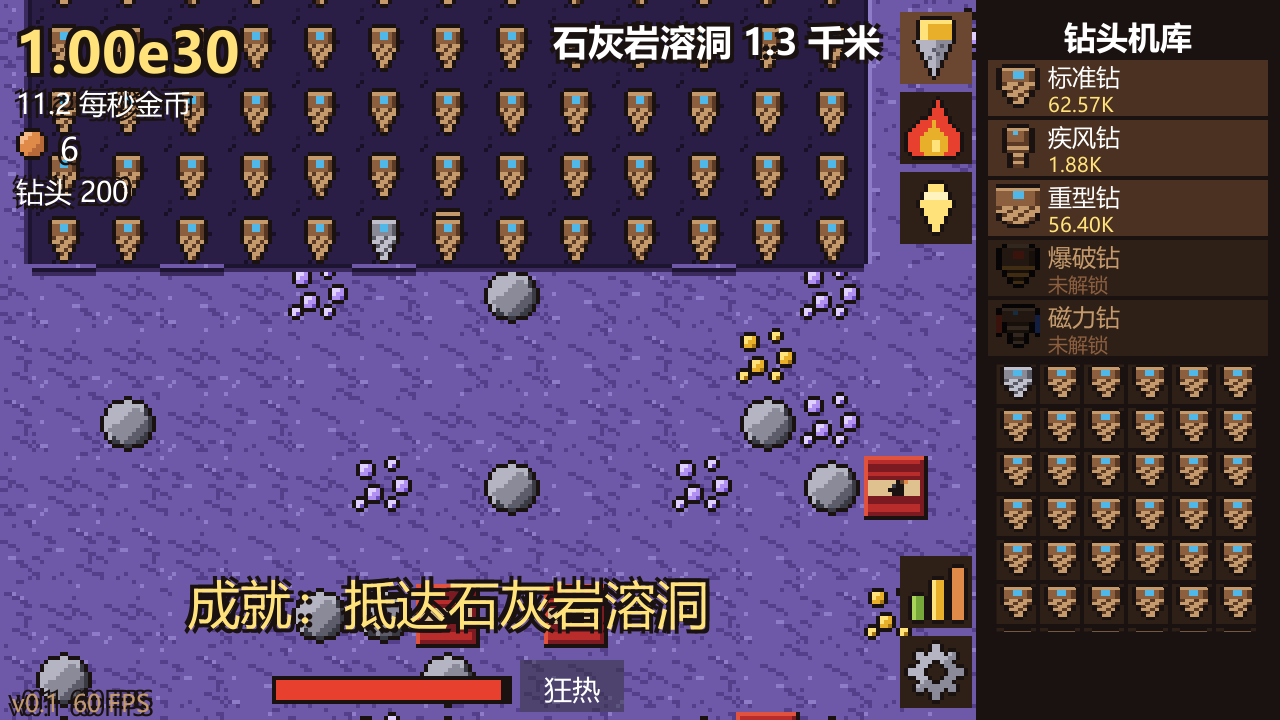
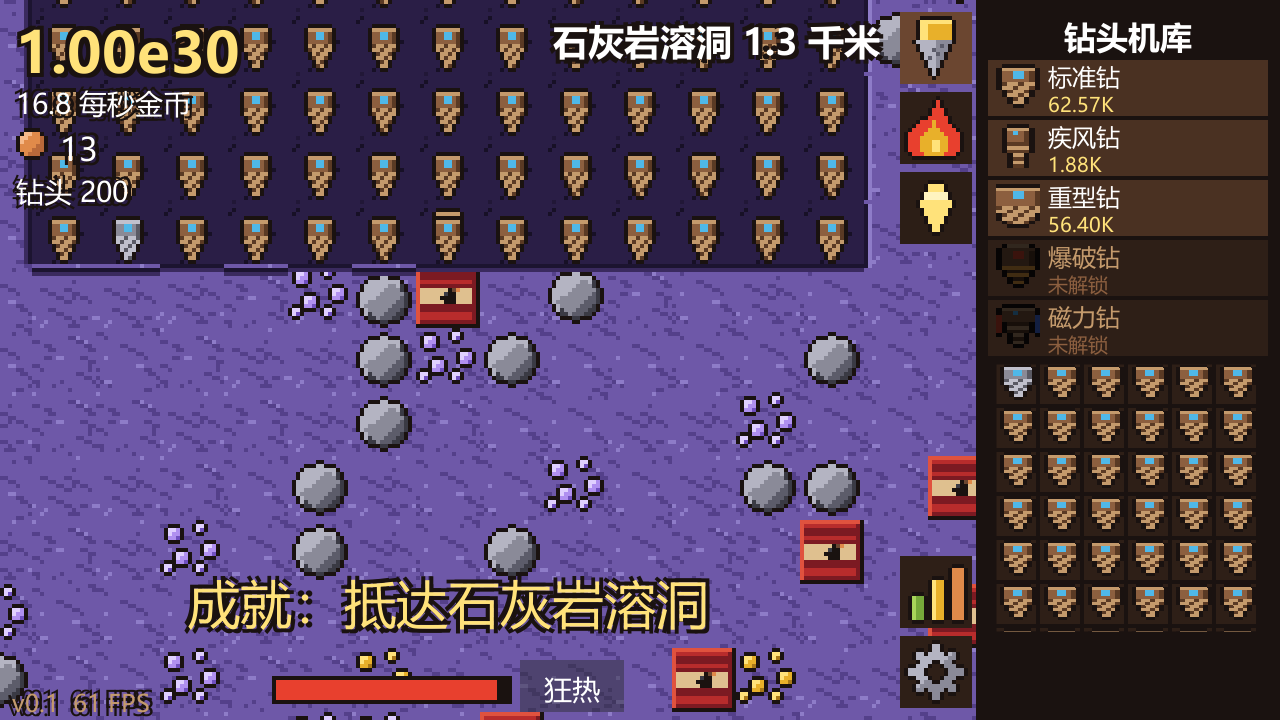
Start every run by hand until auto drilling is unlocked
Drills only swing when tapped until the root skill's first level is
bought, which also gates offline income and the auto hangar. A guide
leads to the skill tree, and the start gold skill keeps the unlock
through a rebirth.

diff --git a/Assets/Tests/EditMode/CoreTests.cs b/Assets/Tests/EditMode/CoreTests.cs
@@ -23,10 +23,116 @@ namespace DeepDrill.Tests
             GameData.Load(name => File.ReadAllText(Path.Combine(data, name + ".json")));
         }
 
+        // Most rules are tested with auto drilling on; FreshSim is a game as the player first meets it.
         private static GameSim NewSim(int seed = 42)
+        {
+            var sim = FreshSim(seed);
+            sim.GrantSkill(GameSim.RootSkill, 1);
+            return sim;
+        }
+
+        private static GameSim FreshSim(int seed = 42)
         {
             EnsureData();
             return new GameSim(new GameState { seed = seed });
+        }
+
+        [Test]
+        public void BeforeUnlock_DrillsDoNotDigByThemselves()
+        {
+            var sim = FreshSim();
+            for (int i = 0; i < 200; i++) sim.Tick(0.1);
+            Assert.AreEqual(0, sim.State.coins, 1e-9);
+            Assert.AreEqual(0, sim.State.depth);
+            Assert.IsFalse(sim.Events.Exists(e => e.Kind == SimEventKind.BlockHit));
+        }
+
+        [Test]
+        public void BeforeUnlock_TappingADrillSwingsItOnce()
+        {
+            var sim = FreshSim();
+            sim.Tick(0.1);
+            sim.Events.Clear();
+            var body = sim.Lead.Body;
+            Assert.IsTrue(sim.Click(body.BodyRow, body.Column), "the drill itself");
+            Assert.IsTrue(sim.Click(body.BodyRow + 1, body.Column), "the block under it");
+            var hits = sim.Events.FindAll(e => e.Kind == SimEventKind.BlockHit);
+            Assert.AreEqual(2, hits.Count);
+            Assert.IsTrue(hits.TrueForAll(e => e.FromClick), "full click feedback");
+            Assert.IsFalse(sim.Click(body.BodyRow + 1, 3), "other blocks do nothing yet");
+        }
+
+        [Test]
+        public void TappingALot_EarnsTheUnlockInAboutHalfAMinuteToAMinute()
+        {
+            var sim = FreshSim();
+            double cost = GameData.Skill(GameSim.RootSkill).CostAt(0);
+            const double tapsPerSecond = 5;
+            double seconds = 0;
+            while (sim.State.coins < cost && seconds < 600)
+            {
+                sim.Tick(1 / tapsPerSecond);
+                sim.Click(sim.Lead.Body.BodyRow + 1, sim.Lead.Body.Column);
+                seconds += 1 / tapsPerSecond;
+            }
+            Assert.That(seconds, Is.InRange(20, 75));
+        }
+
+        [Test]
+        public void Unlocking_StartsAutomaticDigging()
+        {
+            var sim = FreshSim();
+            sim.State.coins = 15;
+            Assert.IsTrue(sim.Buy(GameSim.RootSkill));
+            Assert.IsTrue(sim.AutoDrillUnlocked);
+            for (int i = 0; i < 300; i++) sim.Tick(0.1);
+            Assert.Greater(sim.State.depth, 0);
+        }
+
+        [Test]
+        public void RootLevels_UnlockFirstThenAddDamage()
+        {
+            var sim = FreshSim();
+            int code = DrillCode.Make(0, 0);
+            double damage = sim.DamageOf(code);
+            sim.GrantSkill(GameSim.RootSkill, 1);
+            Assert.AreEqual(damage, sim.DamageOf(code), 1e-9, "level 1 is the switch");
+            sim.GrantSkill(GameSim.RootSkill, 3);
+            Assert.AreEqual(damage * 1.1, sim.DamageOf(code), 1e-9);
+        }
+
+        [Test]
+        public void BeforeUnlock_NoOfflineIncomeOrAutoHangar()
+        {
+            var sim = FreshSim();
+            sim.State.incomePerSecond = 100;
+            sim.State.lastSaveUnixSeconds = 1000;
+            Assert.AreEqual(0, sim.ApplyOffline(5000), 1e-9);
+
+            sim.GrantSkill(GameData.Skills.First(s => s.Effect == SkillEffect.auto_merge).Id, 1);
+            sim.State.drills.Add(DrillCode.Make(0, 0));
+            sim.Tick(1.1);
+            Assert.AreEqual(2, sim.State.drills.Count, "auto merge waits for the unlock");
+        }
+
+        [Test]
+        public void StartGoldSkill_KeepsAutoDrillThroughRebirth()
+        {
+            var sim = NewSim();
+            var s = sim.State;
+            s.bossesDefeated = 1;
+            s.maxDepth = 400;
+            s.totalIncome = 1e6;
+            sim.GrantSkill(GameData.Skills.First(x => x.Effect == SkillEffect.start_gold).Id, 1);
+            Assert.IsTrue(sim.Rebirth());
+            Assert.IsTrue(sim.AutoDrillUnlocked);
+
+            var plain = NewSim();
+            plain.State.bossesDefeated = 1;
+            plain.State.maxDepth = 400;
+            plain.State.totalIncome = 1e6;
+            Assert.IsTrue(plain.Rebirth());
+            Assert.IsFalse(plain.AutoDrillUnlocked, "the switch is cleared like any skill");
         }
 
         private static void MakeBlock(GameSim sim, int row, int col, BlockType type, double hp = 0.1)
@@ -340,7 +446,7 @@ namespace DeepDrill.Tests
         [Test]
         public void Skills_NeedLayerThenPrereq()
         {
-            var sim = NewSim();
+            var sim = FreshSim();
             sim.State.coins = 1e30;
             Assert.IsFalse(sim.Buy("drill_01"), "root first");
             Assert.IsTrue(sim.Buy("root"));
@@ -705,10 +811,10 @@ namespace DeepDrill.Tests
             var chest = sim.Row(10)[0];
             chest.Type = BlockType.Chest;
             chest.Hp = 0.1;
-            sim.GrantSkill("root", 0); // recomputes bonuses
+            sim.GrantSkill("root", 1); // recomputes bonuses
             Assert.AreEqual(before * 1.01, sim.DamageOf(code), 1e-9);
             sim.State.AddRare("rare_1_1");
-            sim.GrantSkill("root", 0);
+            sim.GrantSkill("root", 1);
             Assert.AreEqual(before * 1.015, sim.DamageOf(code), 1e-9);
         }
 
@@ -758,6 +864,7 @@ namespace DeepDrill.Tests
         [Test]
         public void OldSave_RestartsTheWorldButKeepsCoins()
         {
+            EnsureData();
             var state = new GameState { version = 3, coins = 5, depth = 80 };
             state.SetLevel("drill_damage", 5);
             state.Upgrade();

diff --git a/Assets/Scripts/Core/GameSim.cs b/Assets/Scripts/Core/GameSim.cs
@@ -63,6 +63,7 @@ namespace DeepDrill.Core
         private const int SwarmPerDrills = 10;
         private const int AutoBuysPerTick = 5;
         private const int MaxSpawnRowsUp = 40;
+        public const string RootSkill = "root";
         private const int SwiftFamily = 1;
         private const int HeavyFamily = 2;
         private const int BlastFamily = 3;
@@ -151,6 +152,9 @@ namespace DeepDrill.Core
                 Balance.ComboBonusPerStep * (Combo / Balance.ComboStep));
 
         public double Effect(SkillEffect effect) => effects[(int)effect];
+
+        /// <summary>The first level of the root skill: until then drills only move when tapped.</summary>
+        public bool AutoDrillUnlocked => State.LevelOf(RootSkill) >= 1;
 
         private int AchievementCount(string prefix)
         {
@@ -300,14 +304,40 @@ namespace DeepDrill.Core
             AdvanceHousekeeping(dt);
         }
 
-        /// <summary>Player tap on any block. Returns false when nothing was there to hit.</summary>
+        /// <summary>
+        /// Player tap. Tapping a drill or the block under it makes that drill swing once, which is
+        /// the only way to dig before auto drilling is unlocked. Afterwards any block can be tapped.
+        /// Returns false when the tap hit nothing.
+        /// </summary>
         public bool Click(int row, int col)
         {
-            if (row < 0 || col < 0 || col >= Balance.Columns) return false;
+            if (col < 0 || col >= Balance.Columns) return false;
+            // a drill can be above ground, so a tap on it comes before the check for sky
+            var unit = UnitAtOrAbove(row, col);
+            if (unit != null && SwingByHand(unit)) return true;
+            if (!AutoDrillUnlocked || row < 0) return false;
             var block = Row(row)[col];
             if (!block.Alive) return false;
             if (block.Type == BlockType.BossRoot && !BossActive) return false;
             Strike(row, col, ClickDamage, true, RollCrit(), Lead);
+            return true;
+        }
+
+        private DrillUnit UnitAtOrAbove(int row, int col)
+        {
+            foreach (var unit in Units)
+            {
+                if (unit.Body.Column != col) continue;
+                int bodyRow = unit.Body.BodyRow;
+                if (bodyRow == row || bodyRow + 1 == row) return unit;
+            }
+            return null;
+        }
+
+        private bool SwingByHand(DrillUnit unit)
+        {
+            if (!FindTarget(unit.Body, out int row, out int col)) return false;
+            Strike(row, col, DamageOf(unit.Code) * (1 + Effect(SkillEffect.click_pct) / 100), true, RollCrit(), unit);
             return true;
         }
 
@@ -432,7 +462,7 @@ namespace DeepDrill.Core
         /// <summary>Credits offline income and returns how much was added.</summary>
         public double ApplyOffline(long nowUnixSeconds)
         {
-            if (State.lastSaveUnixSeconds <= 0) return 0;
+            if (State.lastSaveUnixSeconds <= 0 || !AutoDrillUnlocked) return 0;
             double earned = Balance.OfflineEarnings(State.incomePerSecond, nowUnixSeconds - State.lastSaveUnixSeconds,
                 Effect(SkillEffect.offline_pct) / 100, Effect(SkillEffect.offline_hours));
             State.coins += earned;
@@ -446,6 +476,7 @@ namespace DeepDrill.Core
             if (!CanRebirth) return false;
             int gained = ShardsOnRebirth;
             double startGold = Balance.StartGold * Math.Max(1, Effect(SkillEffect.start_gold));
+            bool keepAutoDrill = Effect(SkillEffect.start_gold) > 0;
             State.shards += gained;
             State.rebirths++;
 
@@ -456,6 +487,7 @@ namespace DeepDrill.Core
             State.totalIncome = 0;
             State.incomePerSecond = 0;
             State.skills.Clear();
+            if (keepAutoDrill) State.SetLevel(RootSkill, 1);
             State.drills.Clear();
             State.bought.Clear();
             State.bossesDefeated = 0;
@@ -491,7 +523,9 @@ namespace DeepDrill.Core
             {
                 var skill = GameData.Skill(level.id);
                 if (skill == null) continue;
-                double amount = skill.PerLevel * level.level;
+                // the root's first level buys auto drilling, not damage
+                int counted = level.id == RootSkill ? Math.Max(0, level.level - 1) : level.level;
+                double amount = skill.PerLevel * counted;
                 if (skill.Effect == SkillEffect.layer_pct) layerBonus[skill.ForLayer] += amount;
                 effects[(int)skill.Effect] += amount;
             }
@@ -636,6 +670,7 @@ namespace DeepDrill.Core
 
         private void AdvanceHits(double dt)
         {
+            if (!AutoDrillUnlocked) return;
             foreach (var unit in Units)
             {
                 unit.HitClock += dt * HitsPerSecond(unit.Code);
@@ -1036,6 +1071,7 @@ namespace DeepDrill.Core
 
         private void AutoHangar()
         {
+            if (!AutoDrillUnlocked) return;
             bool changed = false;
             if (Effect(SkillEffect.auto_merge) > 0)
             {

diff --git a/Assets/Scripts/Game/HudView.cs b/Assets/Scripts/Game/HudView.cs
@@ -135,7 +135,7 @@ namespace DeepDrill.Game
         private GameObject sidePanel;
         private RectTransform treeContent;
         private Text coinsLabel, incomeLabel, oresLabel, depthLabel, comboLabel, versionLabel, drillsLabel;
-        private Text toastLabel, panelTitle, footerLabel, statsLabel, treeInfo, galleryInfo, galleryCount;
+        private Text toastLabel, guideLabel, panelTitle, footerLabel, statsLabel, treeInfo, galleryInfo, galleryCount;
         private Image meterFill;
         private Image bossBar, bossFill, bossArmorFill;
         private Text bossLabel;
@@ -212,6 +212,8 @@ namespace DeepDrill.Game
 
             toastLabel = Floating("", 0, 140, Stage.DigWidth, 18, 13, TextAnchor.MiddleCenter);
             toastLabel.color = CoinColor;
+            guideLabel = Floating("", 0, 24, Stage.DigWidth, 18, 13, TextAnchor.MiddleCenter);
+            guideLabel.fontStyle = FontStyle.Bold;
 
             var eventsGo = new GameObject("EventSystem");
             eventsGo.transform.SetParent(transform, false);
@@ -555,7 +557,12 @@ namespace DeepDrill.Game
             treeInfo.text = $"{skill.Name} Lv{level}/{skill.MaxLevel}  {skill.Desc}\n{now}{next}{cost}{gate}";
         }
 
-        private static string FormatEffect(SkillDef skill, int level) => $"+{skill.PerLevel * level:0.##}";
+        private static string FormatEffect(SkillDef skill, int level)
+        {
+            if (skill.Id != GameSim.RootSkill) return $"+{skill.PerLevel * level:0.##}";
+            if (level <= 0) return "手动挖掘";
+            return level == 1 ? "自动钻探" : $"自动钻探，伤害 +{skill.PerLevel * (level - 1):0.##}%";
+        }
 
         public void PanTree(Vector2 screenDelta)
         {
@@ -654,6 +661,7 @@ namespace DeepDrill.Game
             UpdateCombo();
             UpdateMeter();
             UpdateToast(dt);
+            UpdateGuide();
             UpdateBoss();
             UpdateRebirth(dt);
 
@@ -661,6 +669,25 @@ namespace DeepDrill.Game
             if (currentPage == PageTree) UpdateTree();
             if (currentPage == PageGallery) UpdateGallery();
             if (currentPage == PageStats) UpdateStats();
+        }
+
+        // The opening: tap the drill, then spend the first coins on auto drilling.
+        private void UpdateGuide()
+        {
+            bool locked = !sim.AutoDrillUnlocked;
+            guideLabel.gameObject.SetActive(locked && currentPage != PageTree);
+            float pulse = Mathf.PingPong(Time.unscaledTime * 2f, 1f);
+            if (locked)
+            {
+                bool earned = sim.State.coins >= 1;
+                guideLabel.text = earned ? "打开技能树，解锁自动钻探" : "点击钻头开始挖掘！";
+                guideLabel.color = Color.Lerp(CoinColor, Color.white, pulse);
+            }
+
+            bool flash = locked && sim.State.coins >= 1 && currentPage != PageTree;
+            railButtons[PageTree].color = flash
+                ? Color.Lerp(RailColor, CoinColor, pulse)
+                : (currentPage == PageTree ? RailSelected : RailColor);
         }
 
         private void UpdateCombo()

diff --git a/Assets/Scripts/Game/DemoDriver.cs b/Assets/Scripts/Game/DemoDriver.cs
@@ -30,8 +30,25 @@ namespace DeepDrill.Game
         private IEnumerator Run()
         {
             var sim = root.Sim;
-            yield return new WaitForSeconds(StartPlaySeconds);
-            yield return Shot("start");
+            yield return new WaitForSeconds(1f);
+            yield return Shot("intro_tap");
+
+            // tap the drill like a player until the first coins arrive
+            float tapUntil = Time.time + StartPlaySeconds;
+            while (sim.State.coins < 1 && Time.time < tapUntil)
+            {
+                root.ClickCell(sim.Lead.Body.BodyRow + 1, sim.Lead.Body.Column);
+                yield return new WaitForSeconds(0.05f);
+            }
+            yield return new WaitForSeconds(0.3f);
+            Debug.Log($"[demo] tapped coins={sim.State.coins:0.0} auto={sim.AutoDrillUnlocked}");
+            yield return Shot("intro_coins");
+
+            sim.State.coins = 15;
+            sim.Buy(GameSim.RootSkill);
+            yield return new WaitForSeconds(4f);
+            Debug.Log($"[demo] unlocked auto={sim.AutoDrillUnlocked} depth={sim.State.depth}");
+            yield return Shot("unlocked");
 
             sim.State.coins = 1e12;
             for (int i = 0; i < SwarmSize; i++) sim.BuyDrill(0);

diff --git a/tools/Design/gen_design_data.py b/tools/Design/gen_design_data.py
@@ -152,7 +152,7 @@ def ring_base_cost(k):
 skills = []
 skills.append({"id": "root", "name": "深渊钻头", "branch": "core", "effect": "dmg_pct", "perLevel": 5, "maxLevel": 10,
                "baseCost": 15, "costGrowth": 1.5, "prereq": [], "x": 0.0, "y": 0.0, "ring": 0,
-               "requiresLayer": 1, "desc": "全部钻头伤害 +5%/级"})
+               "requiresLayer": 1, "desc": "第 1 级：自动钻探，所有钻头自动挖掘；第 2 级起全部钻头伤害 +5%/级"})
 for b, (bid, bname, nodes) in enumerate(BRANCHES):
     ang = math.radians(90 - 60 * b)
     ux, uy = math.cos(ang), math.sin(ang)

diff --git a/Assets/Scripts/Game/WorldView.cs b/Assets/Scripts/Game/WorldView.cs
@@ -155,7 +155,7 @@ namespace DeepDrill.Game
         {
             row = Mathf.RoundToInt(-world.y);
             col = Mathf.RoundToInt(world.x);
-            return row >= 0 && col >= 0 && col < Balance.Columns;
+            return col >= 0 && col < Balance.Columns; // rows above ground stay valid: drills start up there
         }
 
         private void LateUpdate()
